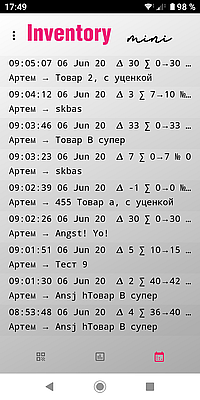
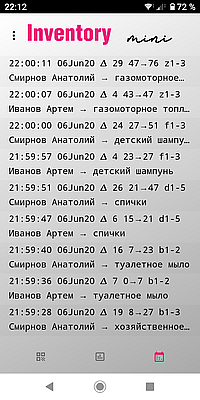
c

diff --git a/website/db.php b/website/db.php
@@ -8,12 +8,12 @@ const __MAX_WEBSITE_HISTORY__ = 1000;
 const __MAX_ANROID_APP_HISTORY__ = 200; 
 
 // format strings to control inventory and history list appearance in Android app
-const __INVENTORY_TO_ANDROID_APP_FORMAT__ = "№ %-8s ∑ %-4s %s"; //  s s s = prodId count prodName
-const __HISTORY_TO_ANDROID_APP_FORMAT_STR_TOP__ = "%s  𝚫 %s ∑ %s→%s № %s"; //date, delta, count_before, count_after, productId
+const __INVENTORY_TO_ANDROID_APP_FORMAT__ = "№%-6s ∑ %-3s %s"; //  s s s = prodId count prodName
+const __HISTORY_TO_ANDROID_APP_FORMAT_STR_TOP__ = "%s 𝚫 %s %s→%s %s"; //date, delta, count_before, count_after, productId
 const __HISTORY_TO_ANDROID_APP_FORMAT_STR_BOTTOM__ = "%s → %s"; // userName, productName
 
 //Database connection mysqli_connect("127.0.0.1", "my_user", "my_password", "my_db");
-$con = mysqli_connect("localhost", "samogo6c_sklad", "sklad123_", "samogo6c_sklad");
+$con = mysqli_connect("localhost", "db_user", "db_password", "db_name");
 
 // Check connection
 if (mysqli_connect_errno())
@@ -274,7 +274,7 @@ function get_history($con, $userid)
     $result = mysqli_query($con, $sel_query);
     while($row = mysqli_fetch_assoc($result))
     {
-        $topStr = sprintf(__HISTORY_TO_ANDROID_APP_FORMAT_STR_TOP__,  date("H:i:s d M y",strtotime($row["actiondate"])), $row["d"], $row["bf"], $row["af"], $row["pid"]);
+        $topStr = sprintf(__HISTORY_TO_ANDROID_APP_FORMAT_STR_TOP__,  date("H:i:s dMy",strtotime($row["actiondate"])), $row["d"], $row["bf"], $row["af"], $row["pid"]);
         $botStr = sprintf(__HISTORY_TO_ANDROID_APP_FORMAT_STR_BOTTOM__, $row["unme"], $row["pnme"]);
         
         $rec["topStr"] = $topStr;
